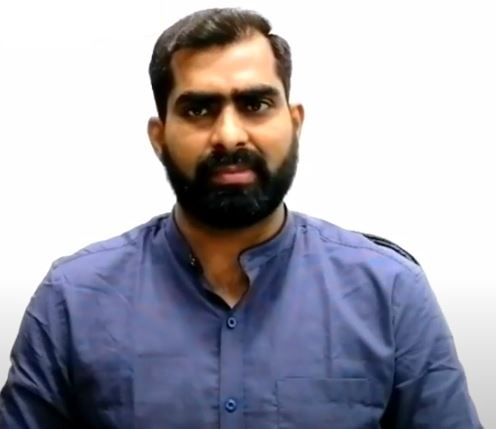
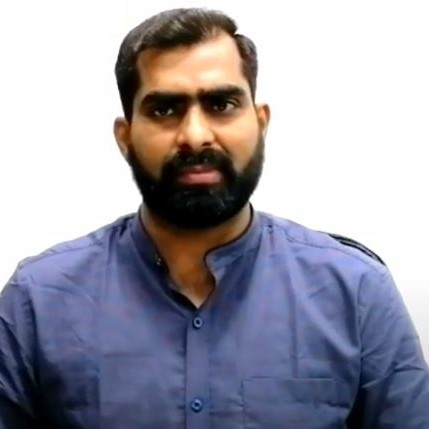
team images edited

diff --git a/about.html b/about.html
@@ -583,11 +583,7 @@
                 data-bs-target="#manishModal"
                 style="cursor: pointer"
               >
-                <img
-                  class="img-fluid rounded"
-                  src="img/team/manish.png"
-                  alt=""
-                />
+                <img class="rounded" src="img/team/manish.png" alt="" />
                 <div class="team-text">
                   <h4 class="mb-0">CS Manish Jain</h4>
                   <p class="text-primary">Founder</p>
@@ -610,7 +606,7 @@
                 data-bs-target="#parvModal"
                 style="cursor: pointer"
               >
-                <img class="img-fluid rounded" src="img/team/parv.png" alt="" />
+                <img class="rounded" src="img/team/parv.png" alt="" />
                 <div class="team-text">
                   <h4 class="mb-0">CS Parv Tholia</h4>
                   <p class="text-primary">Executive</p>
@@ -630,7 +626,7 @@
                 data-bs-target="#rajModal"
                 style="cursor: pointer"
               >
-                <img class="img-fluid rounded" src="img/team/raj.png" alt="" />
+                <img class="rounded" src="img/team/raj.png" alt="" />
                 <div class="team-text">
                   <h4 class="mb-0">CS Raj Saini</h4>
                   <p class="text-primary">Executive</p>
@@ -657,11 +653,7 @@
                 data-bs-target="#tarunaModal"
                 style="cursor: pointer"
               >
-                <img
-                  class="img-fluid rounded"
-                  src="img/team/taruna.png"
-                  alt=""
-                />
+                <img class="rounded" src="img/team/taruna.png" alt="" />
                 <div class="team-text">
                   <h4 class="mb-0">Advocate Taruna Jain</h4>
                   <p class="text-primary">Co-Founder</p>
@@ -684,7 +676,7 @@
                 data-bs-target="#poojaModal"
                 style="cursor: pointer"
               >
-                <img class="img-fluid rounded" src="img/team/user.png" alt="" />
+                <img class="rounded" src="img/team/user.png" alt="" />
                 <div class="team-text">
                   <h4 class="mb-0">Pooja Kanwar</h4>
                   <p class="text-primary">Executive</p>
@@ -704,7 +696,7 @@
                 data-bs-target="#pallaviModal"
                 style="cursor: pointer"
               >
-                <img class="img-fluid rounded" src="img/team/user.png" alt="" />
+                <img class="rounded" src="img/team/user.png" alt="" />
                 <div class="team-text">
                   <h4 class="mb-0">Pallavi Khan</h4>
                   <p class="text-primary">Executive</p>
@@ -731,7 +723,7 @@
                 data-bs-target="#manuModal"
                 style="cursor: pointer"
               >
-                <img class="img-fluid rounded" src="img/team/manu.png" alt="" />
+                <img class="rounded" src="img/team/manu.png" alt="" />
                 <div class="team-text">
                   <h4 class="mb-0">CA Manu Jain</h4>
                   <p class="text-primary">Executive</p>
@@ -751,11 +743,7 @@
                 data-bs-target="#abhishekModal"
                 style="cursor: pointer"
               >
-                <img
-                  class="img-fluid rounded"
-                  src="img/team/abhishek.jpg"
-                  alt=""
-                />
+                <img class="rounded" src="img/team/abhishek.jpg" alt="" />
                 <div class="team-text">
                   <h4 class="mb-0">CA Abhishek Jain</h4>
                   <p class="text-primary">Executive</p>
@@ -775,7 +763,7 @@
                 data-bs-target="#arunModal"
                 style="cursor: pointer"
               >
-                <img class="img-fluid rounded" src="img/team/arun.png" alt="" />
+                <img class="rounded" src="img/team/arun.png" alt="" />
                 <div class="team-text">
                   <h4 class="mb-0">CA Arun Sharma</h4>
                   <p class="text-primary">Executive</p>
@@ -820,7 +808,7 @@
               <div class="col-md-4">
                 <img
                   src="img/team/manish.png"
-                  class="img-fluid rounded"
+                  class="rounded"
                   alt="CS Manish Jain"
                 />
               </div>
@@ -883,7 +871,7 @@
               <div class="col-md-4">
                 <img
                   src="img/team/parv.png"
-                  class="img-fluid rounded"
+                  class="rounded"
                   alt="CS Parv Tholia"
                 />
               </div>
@@ -939,7 +927,7 @@
               <div class="col-md-4">
                 <img
                   src="img/team/raj.png"
-                  class="img-fluid rounded"
+                  class="rounded"
                   alt="CS Raj Saini"
                 />
               </div>
@@ -995,7 +983,7 @@
               <div class="col-md-4">
                 <img
                   src="img/team/taruna.png"
-                  class="img-fluid rounded"
+                  class="rounded"
                   alt="Advocate Taruna Jain"
                 />
               </div>
@@ -1058,7 +1046,7 @@
               <div class="col-md-4">
                 <img
                   src="img/team/user.png"
-                  class="img-fluid rounded"
+                  class="rounded"
                   alt="Pooja Kanwar"
                 />
               </div>
@@ -1116,7 +1104,7 @@
               <div class="col-md-4">
                 <img
                   src="img/team/user.png"
-                  class="img-fluid rounded"
+                  class="rounded"
                   alt="Pallavi Khan"
                 />
               </div>
@@ -1174,7 +1162,7 @@
               <div class="col-md-4">
                 <img
                   src="img/team/manu.png"
-                  class="img-fluid rounded"
+                  class="rounded"
                   alt="CA Manu Jain"
                 />
               </div>
@@ -1234,7 +1222,7 @@
               <div class="col-md-4">
                 <img
                   src="img/team/abhishek.jpg"
-                  class="img-fluid rounded"
+                  class="rounded"
                   alt="CA Abhishek Jain"
                 />
               </div>
@@ -1293,7 +1281,7 @@
               <div class="col-md-4">
                 <img
                   src="img/team/arun.png"
-                  class="img-fluid rounded"
+                  class="rounded"
                   alt="CA Arun Sharma"
                 />
               </div>

diff --git a/css/style.css b/css/style.css
@@ -585,6 +585,7 @@ h6,
 .team-item img {
     position: relative;
     z-index: 2;
+    width: -webkit-fill-available;
 }
 
 .team-item .team-text {
